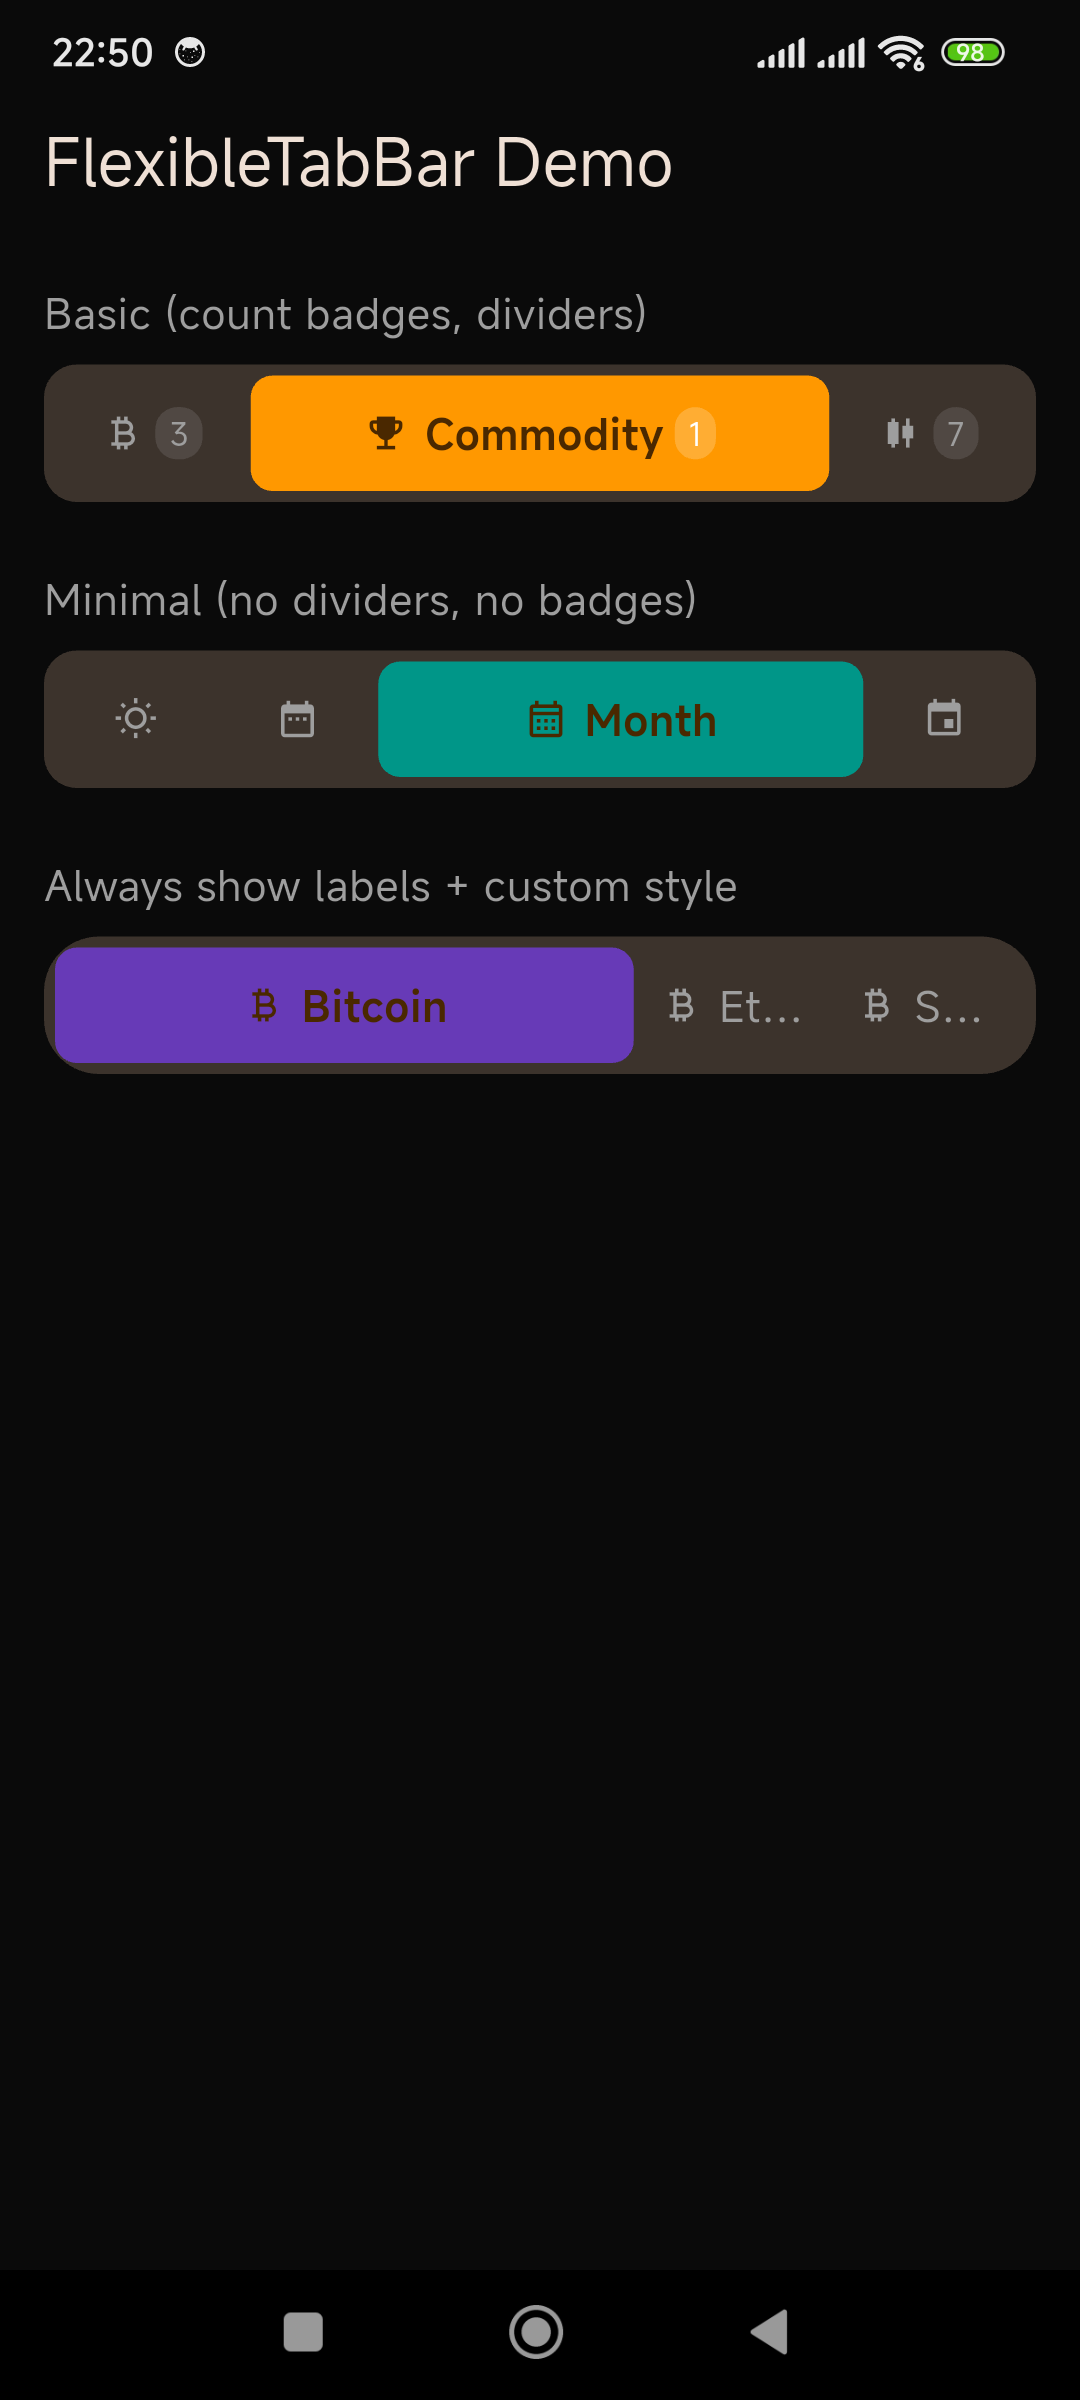
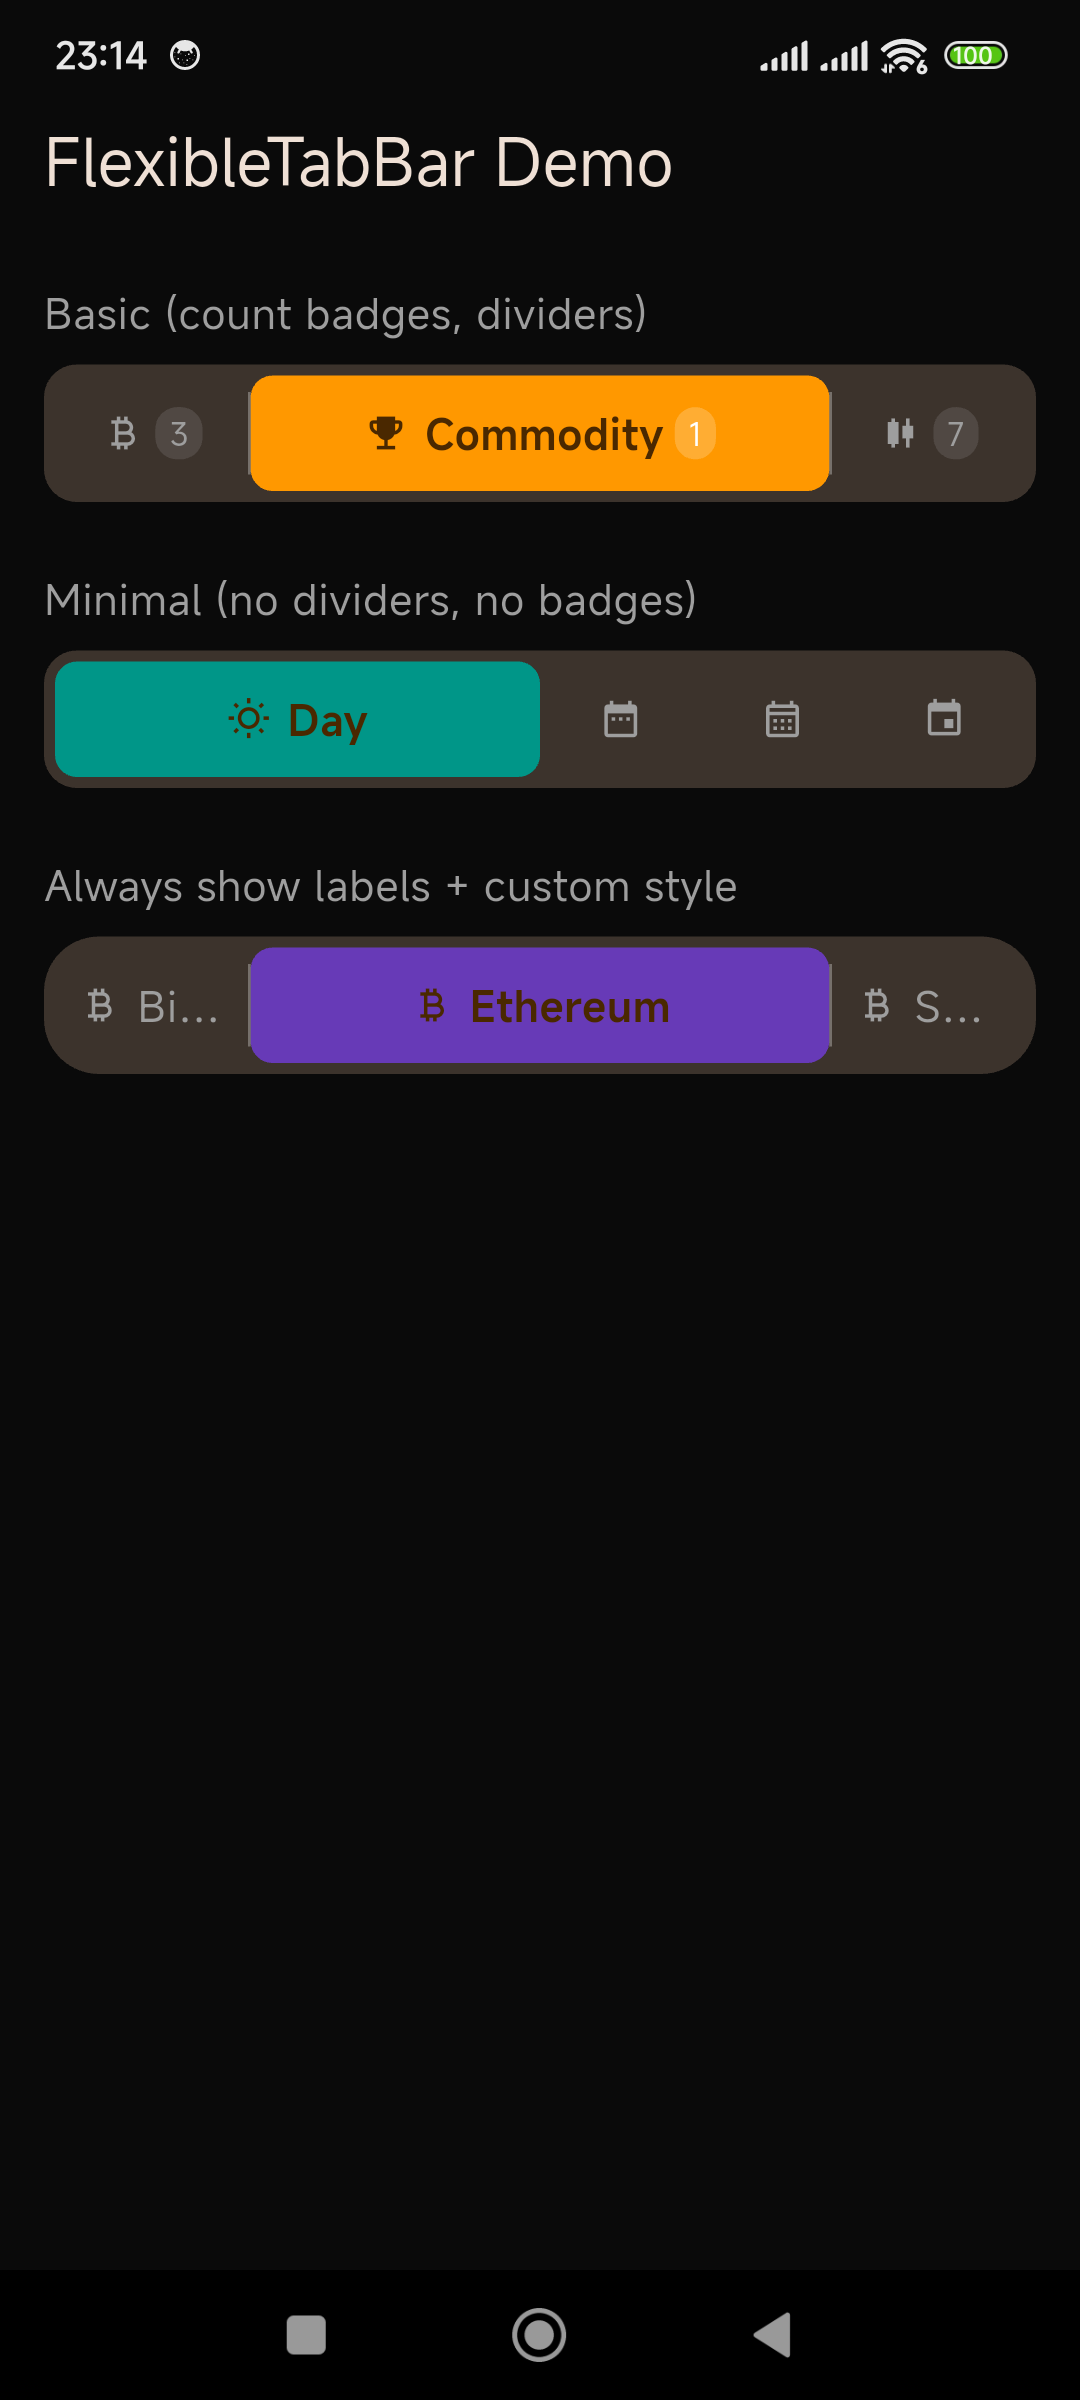
docs: update screenshots for divider fix, remove irrelevant crypto reference

diff --git a/README.md b/README.md
@@ -8,7 +8,7 @@ A beautifully animated, flex-based tab bar for Flutter.
 
 **Active tabs expand horizontally**, inactive tabs compact — with icons, labels, optional count badges, and smooth `AnimatedContainer` transitions.
 
-Built from a real-world crypto tracking app by [trinhnx](https://trinhnx.dev), extracted as a reusable component so everyone can benefit.
+Perfect when you need a compact tab bar where the active tab stands out with more space and the inactive tabs stay out of the way.
 
 ## Why this package?
 
